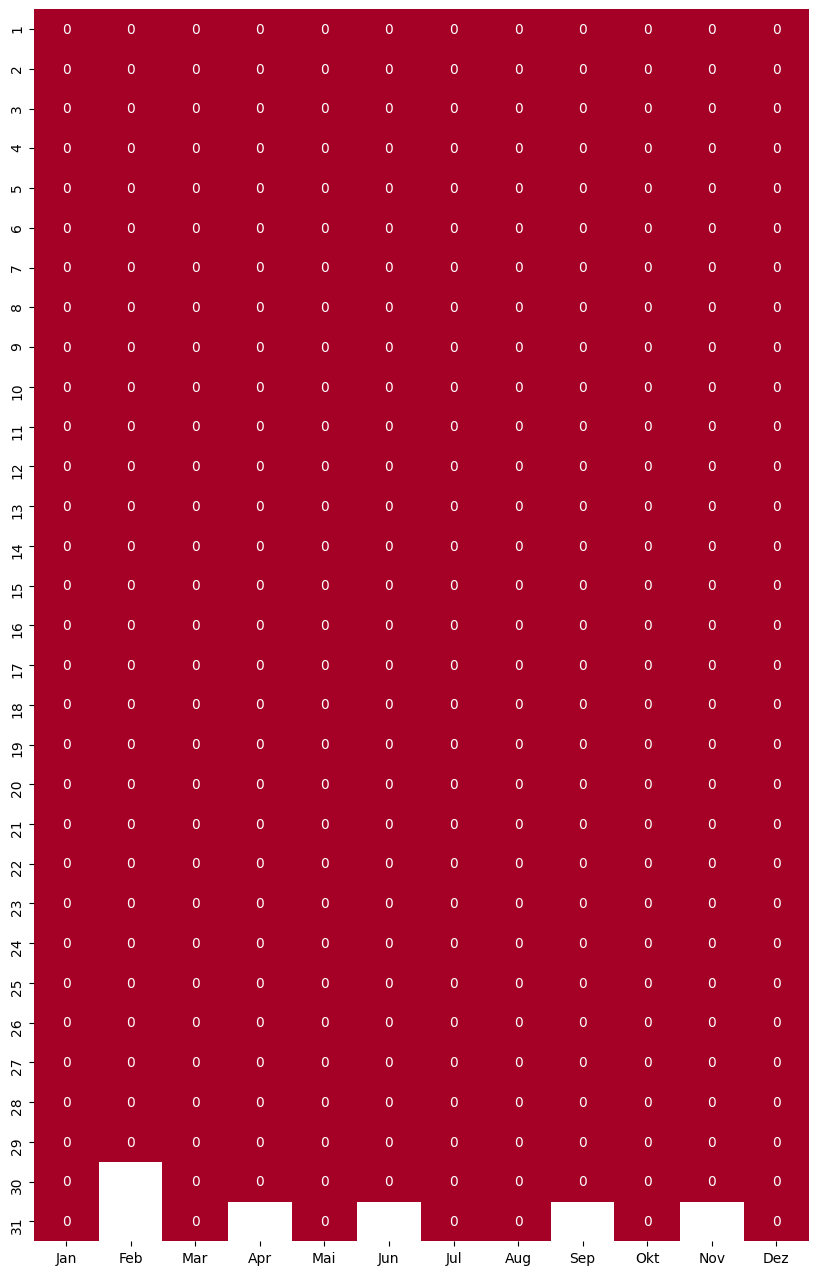
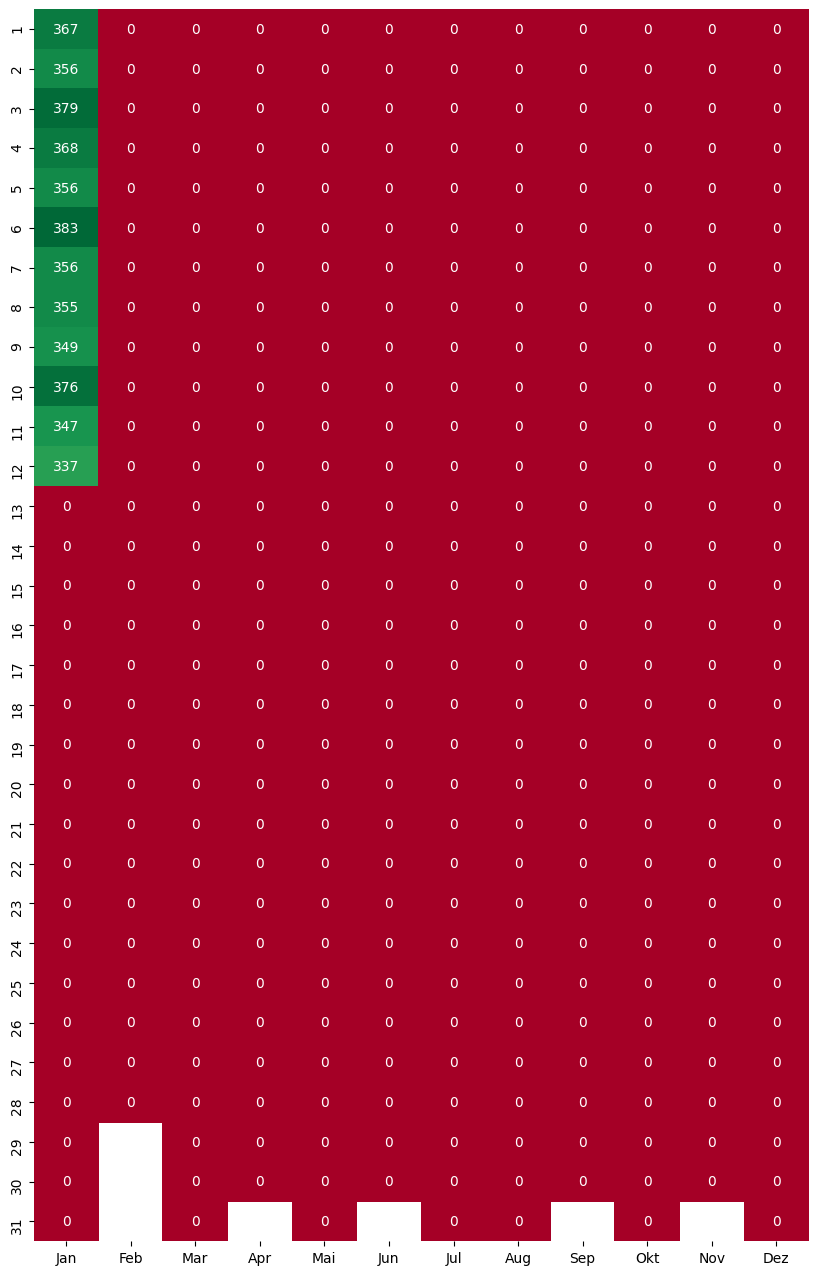
Umstellung auf 2021

Changed region(s): [[0.0306, 0.0, 0.1222, 0.3976], [0.1222, 0.8565, 0.2139, 0.9176]]

diff --git a/Auswertung/tageweise.py b/Auswertung/tageweise.py
@@ -40,7 +40,7 @@ ergebnis = np.zeros([31,12])
 for monat in range(1,13):
     for tag in range(1,32):
         try: 
-            ergebnis[tag-1][monat-1] = vergleich[datetime.date(2020,monat,tag)]['datum_zeit']
+            ergebnis[tag-1][monat-1] = vergleich[datetime.date(2021,monat,tag)]['datum_zeit']
         except:
             pass
             
@@ -64,7 +64,7 @@ for x in range(0,12):
         try: 
             monat = x+1
             tag = y+1
-            datetime.datetime(year=2020, month=monat, day=tag)
+            datetime.datetime(year=2021, month=monat, day=tag)
             mask[y][x] = 0
         except ValueError:
             mask[y][x] = 1
